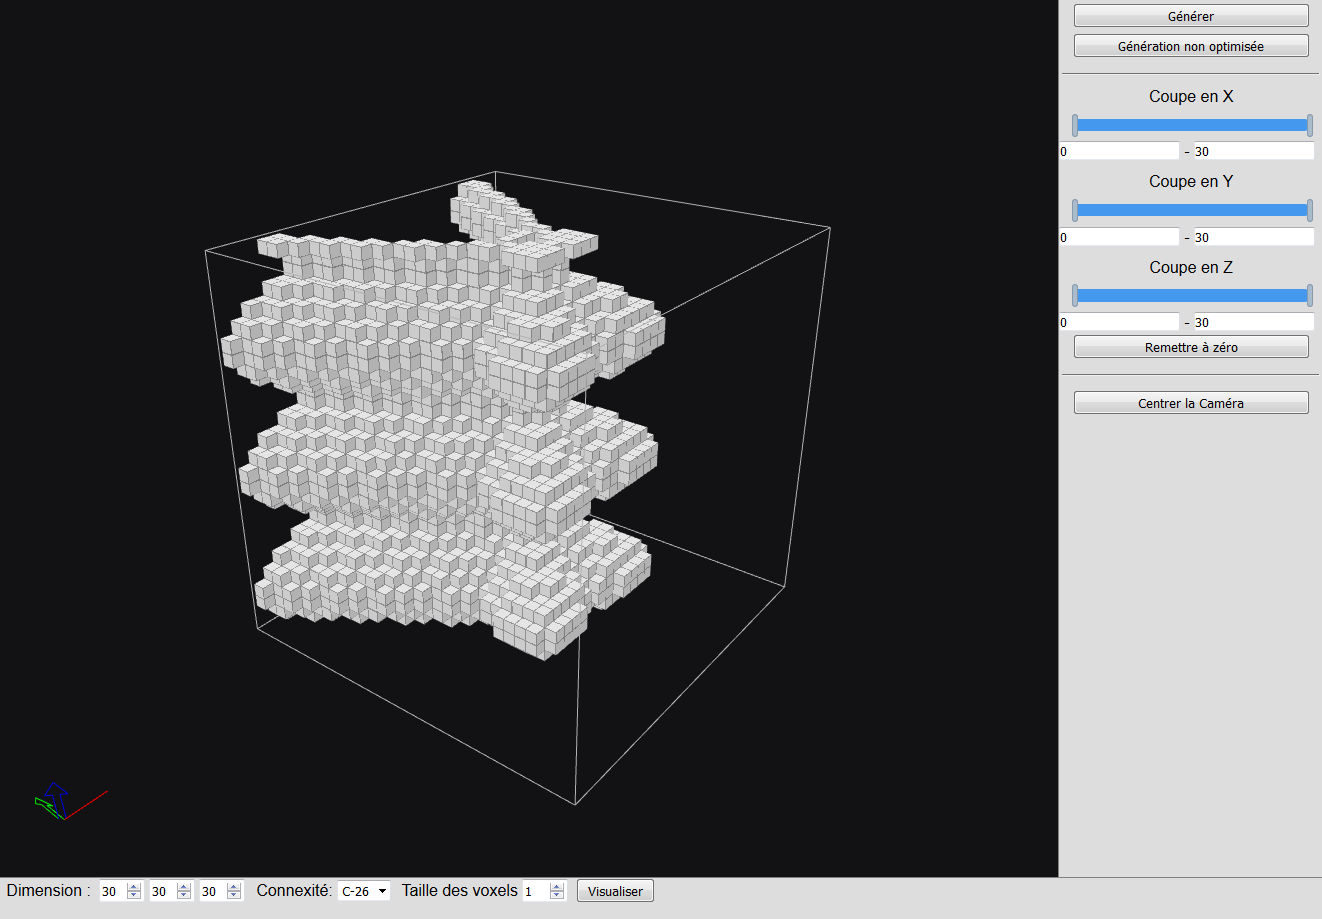
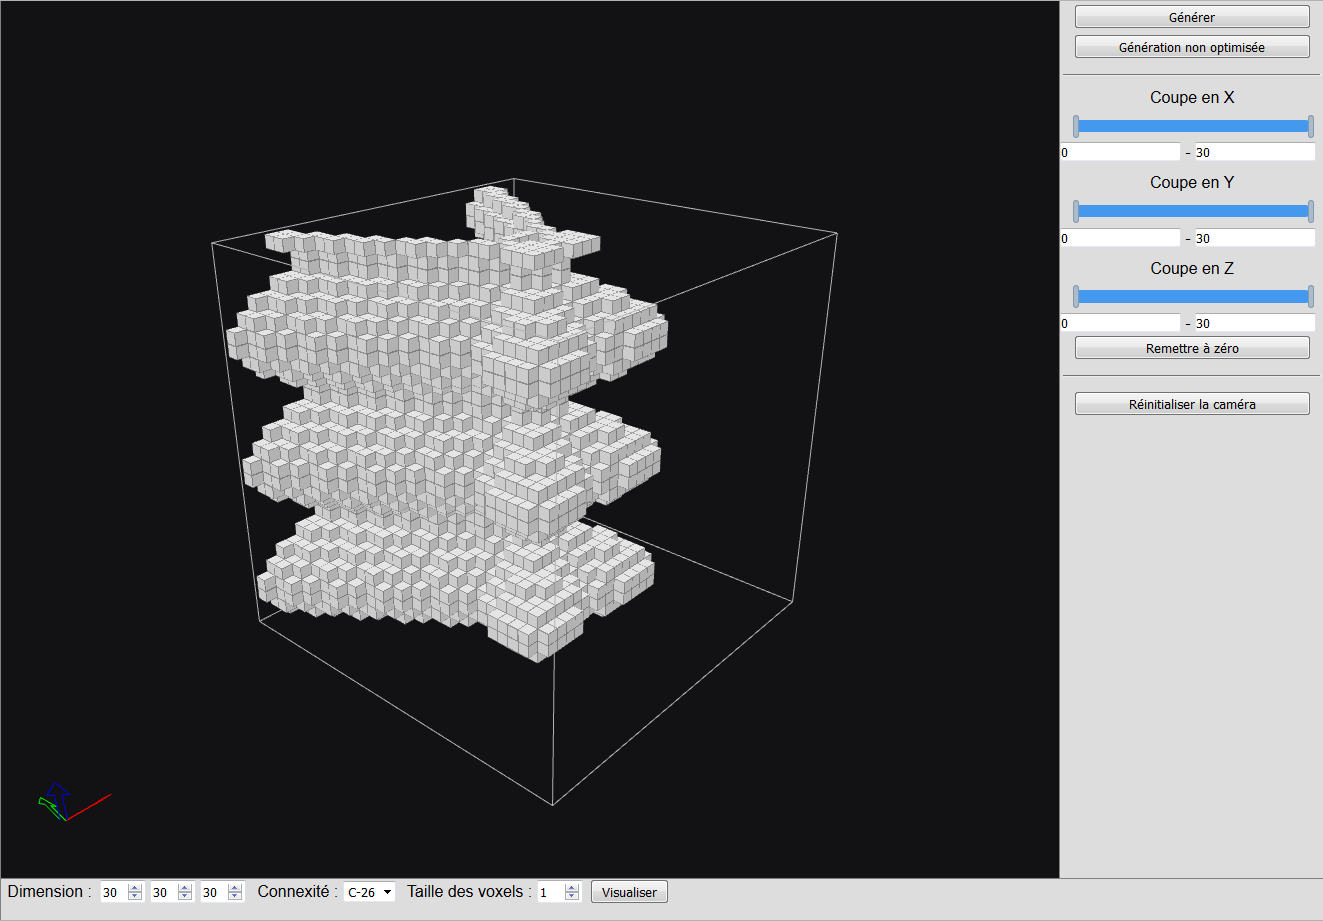
Update aide utilisateur

diff --git a/ApplicationDiscret/Application/Js/Interface/Application_Translate.js b/ApplicationDiscret/Application/Js/Interface/Application_Translate.js
@@ -71,8 +71,8 @@ aLangKeys['en']['m28'] = 'Show/hide 3D space limits';
 aLangKeys['en']['m29'] = 'Center';
 
 
-aLangKeys['en']['m3'] = 'Curve:';
-aLangKeys['en']['m341'] = 'Connexity:';
+aLangKeys['en']['m3'] = 'Curve';
+aLangKeys['en']['m341'] = 'Connexity';
 
 
 /* Sous menu 2D anglais */
@@ -147,7 +147,7 @@ aLangKeys['en']['a3'] = 'Clear';
 aLangKeys['en']['a5'] = 'Display';
 aLangKeys['en']['a8'] = 'Close the curve';
 aLangKeys['en']['a9'] = 'Reset';
-aLangKeys['en']['a10'] = 'Center the Camera';
+aLangKeys['en']['a10'] = 'Reset the camera';
 
 aLangKeys['en']['popUpGen'] = 'Generation...';
 aLangKeys['en']['popUpGen'] = 'Abort...';
@@ -266,7 +266,7 @@ aLangKeys['fr']['a3'] = 'Effacer';
 aLangKeys['fr']['a5'] = 'Visualiser';
 aLangKeys['fr']['a8'] = 'Fermer la courbe';
 aLangKeys['fr']['a9'] = 'Remettre à zéro';
-aLangKeys['fr']['a10'] = 'Centrer la Caméra';
+aLangKeys['fr']['a10'] = 'Réinitialiser la caméra';
 
 
 aLangKeys['fr']['popUpGen'] = 'Génération...';

diff --git a/ApplicationDiscret/Application/helpEN.html b/ApplicationDiscret/Application/helpEN.html
@@ -243,6 +243,10 @@
 											<p>By holding down the left mouse button, it is possible to rotate the camera around the surface.<br/>
 											By holding down the middle mouse button, it is possible to move the camera.</p>
 										</div>
+										<div>
+											<img class="img-responsive" src="UserDocumentation/EN/ResetCam.png" alt="Reset the camera" />
+											<p> It is possible to reset the position of the camera to its initial position.
+										</div>
 									</li id="3DDimensions">
 									<li><p>3d Space dimension</p>
 										<div>
@@ -430,7 +434,7 @@
 								<p>The application is translated in English and French.<br/>
 									It is possible to switch to a language by clicking on it.
 								</p>
-								<img class="img-responsive" src="UserDocumentation/Translate.png" alt="Translation"/>
+								<img class="img-responsive" src="UserDocumentation/EN/Translate.png" alt="Translation"/>
 							</div>
 					</div>
 			</div>
